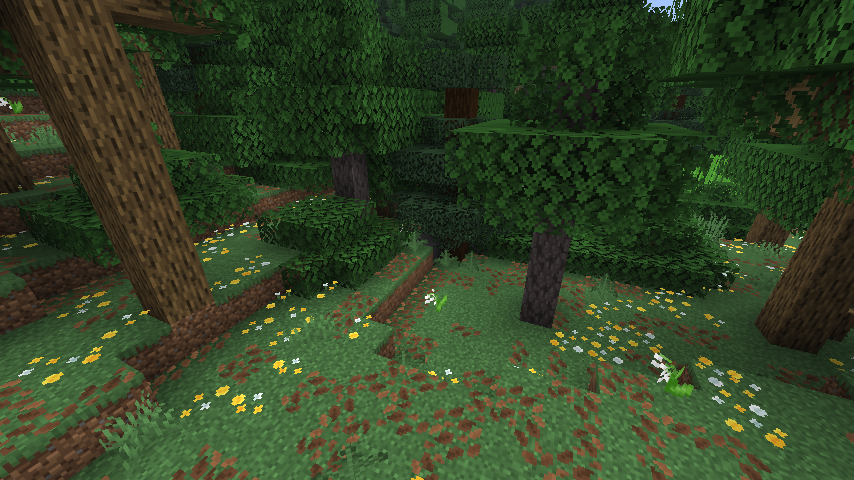
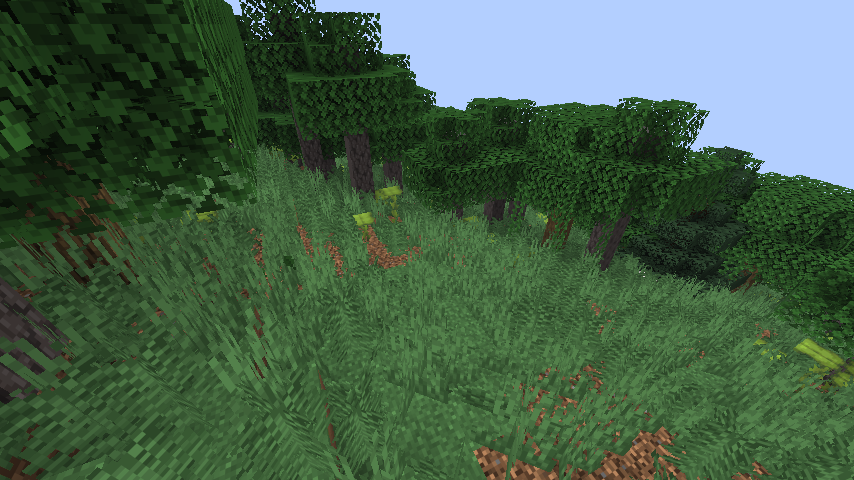
Real gray alder forest place for the gameplay checkpoint shot (WIP)
- Move the gameplay gray_alder_forest checkpoint 2 place from (27825, 3374),
  an oak-hornbeam forest with one gray alder column, to (28072, 3880), where the
  classifier gives gray_alder_forest to every column within 16 blocks.
- The screenshots of the extra forests now fail when their biome holds less than
  30% of the columns within 16 blocks, and the log reports that share.
- Replace gray_alder_forest_gameplay.png with the shot of the new place.

diff --git a/src/gametest/java/pl/polishforests/gametest/VegetationClientGameTest.java b/src/gametest/java/pl/polishforests/gametest/VegetationClientGameTest.java
@@ -99,7 +99,15 @@ public final class VegetationClientGameTest implements FabricClientGameTest {
 	private static final int[][] EXTRA_REAL = {{-144, 32}, {-231_006, -134_146}, {16, 0}, {99_409, 1_034_685}, null,
 			{-19_612, 11_205}, {155_490, 1_059_162}};
 	private static final int[][] EXTRA_GAMEPLAY = {{-32, 32}, {-1_280, -496}, {0, 0}, {27_273, 3_606}, {27_305, 3_718},
-			{-1_787, 6_086}, {27_825, 3_374}};
+			{-1_787, 6_086}, {28_072, 3_880}};
+	/** Radius (blocks) of the disk around the center of an extra place in which its biome must dominate. */
+	private static final int EXTRA_SHARE_RADIUS = 16;
+	/**
+	 * Least share of the named biome in that disk (S7 review round 2: the gameplay gray alder forest at (27825, 3374)
+	 * was a single column of it inside an oak-hornbeam forest, 9% of the disk). The narrow belt of the realistic gray alder
+	 * forest along its stream fills 39%.
+	 */
+	private static final double EXTRA_MIN_SHARE = 0.30;
 	/** Start of the search for the willow scrub of the gameplay scale: the large river of the transect. */
 	private static final int[] WILLOW_SCRUB_GAMEPLAY = {-1_851, 6_022};
 
@@ -524,6 +532,13 @@ public final class VegetationClientGameTest implements FabricClientGameTest {
 			}
 			int[] center = c;
 			taken.add(center);
+			HabitatBiome named = HabitatBiome.byId(name);
+			double share = named == null ? Double.NaN
+					: sp.getServer().computeOnServer(s -> biomeShare(s, center[0], center[1], named));
+			if (p >= soil.length && !(share >= EXTRA_MIN_SHARE)) {
+				throw new AssertionError(String.format(Locale.ROOT, "%s %s: center (%d, %d) holds only %.1f%% of %s within %d blocks",
+						scale, name, center[0], center[1], 100 * share, name, EXTRA_SHARE_RADIUS));
+			}
 			boolean open = OPEN.contains(name);
 			int centerY = sp.getServer().computeOnServer(s -> groundY(s, center[0], center[1]));
 			String biome = sp.getServer().computeOnServer(s -> centerBiome(s, center[0], center[1]));
@@ -538,10 +553,11 @@ public final class VegetationClientGameTest implements FabricClientGameTest {
 					pitch));
 			context.waitTicks(20 * 25);
 			String client = context.computeOnClient(mc -> mc.level.getChunkSource().gatherStats());
-			PolishForests.LOG.info("[vegetation] {} {}: center ({}, {}) {} ground Y {}, camera ({}, {}, {}) yaw {} pitch {}, "
-					+ "view score {} (blocked steps); client {}", scale, name, center[0], center[1], biome, centerY, camera[0],
-					camera[1], camera[2], String.format(Locale.ROOT, "%.1f", yaw), String.format(Locale.ROOT, "%.1f", pitch),
-					camera[3], client);
+			PolishForests.LOG.info("[vegetation] {} {}: center ({}, {}) {} ({} of the biome within {} blocks) ground Y {}, "
+					+ "camera ({}, {}, {}) yaw {} pitch {}, view score {} (blocked steps); client {}", scale, name, center[0],
+					center[1], biome, Double.isNaN(share) ? "-" : String.format(Locale.ROOT, "%.0f%%", 100 * share),
+					EXTRA_SHARE_RADIUS, centerY, camera[0], camera[1], camera[2], String.format(Locale.ROOT, "%.1f", yaw),
+					String.format(Locale.ROOT, "%.1f", pitch), camera[3], client);
 			context.waitTicks(20 * 15);
 			context.takeScreenshot("vegetation_" + name + "_" + scale);
 		}
@@ -554,6 +570,28 @@ public final class VegetationClientGameTest implements FabricClientGameTest {
 	}
 
 	/** Biome of the habitat code at the column (x, z) (the log shows that a place is what its name says). */
+	/** Share of the columns (every 2 blocks) of the disk of {@link #EXTRA_SHARE_RADIUS} around (x, z) in the biome. */
+	private static double biomeShare(MinecraftServer server, int x, int z, HabitatBiome biome) {
+		PolandChunkGenerator gen = generator(server);
+		long seed = server.overworld().getSeed();
+		LandscapeModel m = gen.model(seed);
+		HabitatClassifier k = gen.classifier(seed);
+		int r = EXTRA_SHARE_RADIUS;
+		int all = 0;
+		int hits = 0;
+		for (int dx = -r; dx <= r; dx += 2) {
+			for (int dz = -r; dz <= r; dz += 2) {
+				if (dx * dx + dz * dz <= r * r) {
+					all++;
+					if (Habitat.biome(k.classify(m.sample(x + dx, z + dz), x + dx, z + dz)) == biome) {
+						hits++;
+					}
+				}
+			}
+		}
+		return (double) hits / all;
+	}
+
 	private static String centerBiome(MinecraftServer server, int x, int z) {
 		PolandChunkGenerator gen = generator(server);
 		long seed = server.overworld().getSeed();
